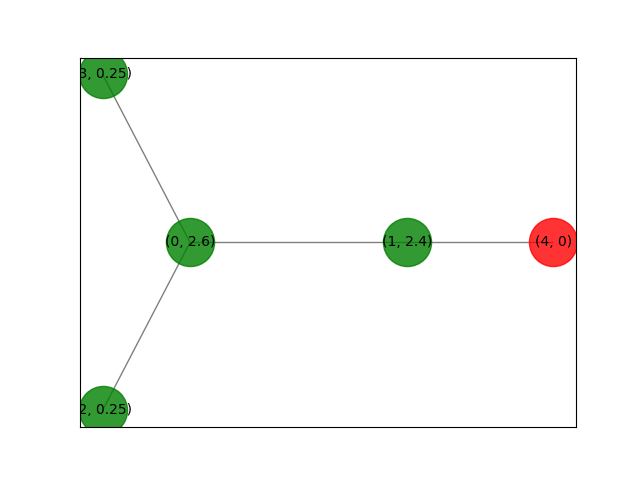
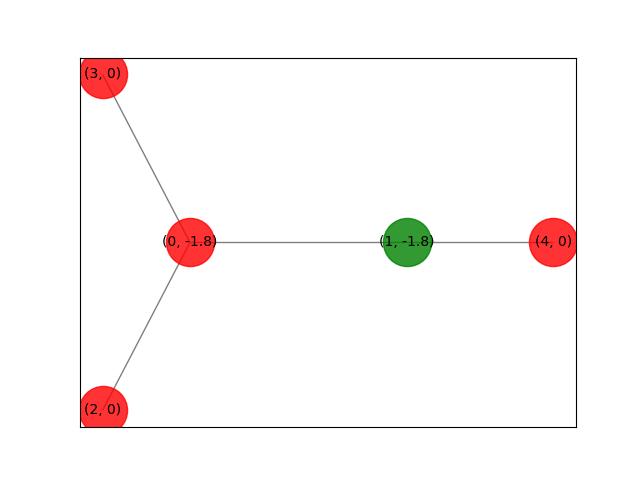
Build graph from degree dist

diff --git a/simulation.py b/simulation.py
@@ -12,7 +12,7 @@ class Agent:
         self.payoff = 0
 
 class Simulation:
-    def __init__(self, initGraph, vH0, vH1, vL0, vL1, quality, p1, p0, reward, alpha, pHigh):
+    def __init__(self, initGraph, vH0, vH1, vL0, vL1, quality, p1, p0, reward, alpha, pHigh, degreeDistribution, n):
         # Graph topology info, intial adopters in round 0 assigned later. 
         self.G = initGraph
 
@@ -48,15 +48,31 @@ class Simulation:
         # Initial adopters for starting the simulation.
         self.initialAdopters = []
 
+        # Distribution of the degrees of the graph.
+        self.degreeDistribution = degreeDistribution
+        # Number of nodes to make up the graph.
+        self.n = n
+
     def simulate(self):
+        self.buildGraphFromDegreeDistribution()
         self.drawGraphState()
         self.calculateMeanFieldStrategyForAgents()
         self.assignInitialAdopters()
         self.simulateDiffusionOfProduct()
 
+    def buildGraphFromDegreeDistribution(self):
+        degreeSequence = []            
+        for i in range(self.n):
+           degreeSequence.append(utils.sampleDegreeFromDistribution(self.degreeDistribution))
+        print("Degree Sequence:", degreeSequence)   
+        G=nx.expected_degree_graph(degreeSequence)
+        nx.draw(G)
+        plt.savefig("test.png") 
+
     def calculateMeanFieldStrategyForAgents(self):
         meanFieldStrategy = {}
-        for degree in range(10):
+        largest = list(self.degreeDistribution.keys()).pop()
+        for degree in range(1, largest + 1):
             payoffDelta = utils.payoffDeltaEarlyLate(self.alpha, self.vH0, self.vH1, self.vL0, degree, self.pHigh, self.p0, self.p1, self.reward)
             if math.isclose(payoffDelta, 0):
                 # Node indifferent
@@ -153,13 +169,21 @@ if __name__ == "__main__":
         (nodes[1], nodes[4]),
     ])
 
+    degreeDistribution = {
+        1 : 0.4,
+        2 : 0.3,
+        3 : 0,
+        4 : 0,
+        5 : 0.3,
+    }
+
     simulationParameters = {
                    # Product info
                    "vH1": 1.25,
                    "vH0": 4,
                    "vL1": 0.2,
                    "vL0": 0.2,
-                   "quality": 1,
+                   "quality": 0,
 
                    # Pricing policy
                    "p0": 2,
@@ -170,6 +194,11 @@ if __name__ == "__main__":
                    "alpha": 0.1,
                    # Agent's belief on the probabilty that the product qualtiy is high
                    "pHigh" : 0.336,
+
+                   # Distribution of the degrees of the graph.
+                   "degreeDistribution" : degreeDistribution,
+                   # Number of nodes to make up the graph.
+                   "n": 6,
                    }        
 
     sim = Simulation(G, **simulationParameters)

diff --git a/utils.py b/utils.py
@@ -1,3 +1,5 @@
+import random
+
 def payoffDeltaEarlyLate(alpha, AH0, AH1, AL0, d, p, P0, P1, eta):
     """Returns difference between payoffs of adopting early vs late.
     >>> math.isclose(payoffDeltaEarlyLate(0.2, 2, 1, 0.5, 3, 0.5, 0.8, 1, 0.2), 1.19)
@@ -12,6 +14,14 @@ def payoffEarly(alpha, AH0, AH1, AL0, d, p, P0, eta):
 
 def payoffLate(alpha, AH1, d, p, P1):
     return p * (1 - (1 - alpha)**d) * (AH1 - P1)
+
+def sampleDegreeFromDistribution(distribution):
+    m = random.random()
+    total = 0
+    for k, v in distribution.items():
+        total += v
+        if m <= total:
+            return k    
 
 if __name__ == "__main__":
     import doctest
